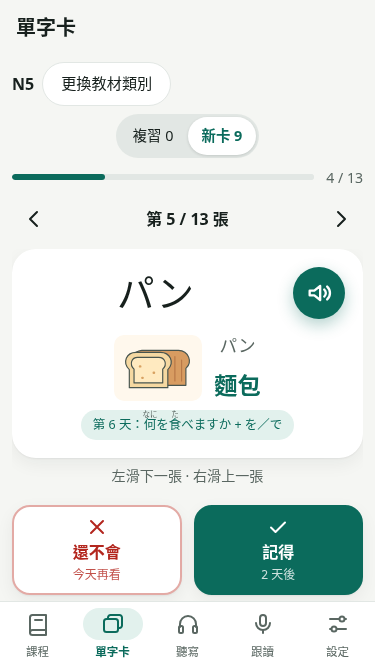
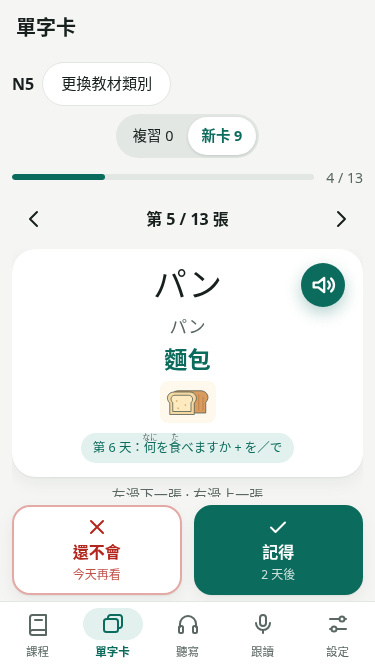
fix: center flashcard text and place auxiliary images below translations

Changed region(s): [[0.2053, 0.3898, 0.792, 0.7496], [0.7627, 0.3898, 0.9387, 0.5097]]

diff --git a/app/globals.css b/app/globals.css
@@ -803,52 +803,64 @@ a {
   animation: screen-in 0.18s ease-out;
 }
 
-/* Answer-only images stay beside the text, leaving playback and grading in place. */
-.flash-answer-detail {
-  display: flex;
-  align-items: center;
-  justify-content: center;
-  gap: 12px;
-  max-width: 100%;
-}
-
+/* Text keeps the same centerline with or without an auxiliary image. */
+.flash-answer-detail,
 .flash-answer-text {
   display: flex;
   flex-direction: column;
-  gap: 6px;
+  align-items: center;
+  width: 100%;
   min-width: 0;
+  text-align: center;
   overflow-wrap: anywhere;
 }
+
+.flash-answer-detail { gap: 6px; }
+.flash-answer-text { gap: 4px; }
 
 .vocab-illustration {
-  width: 88px;
-  height: 66px;
+  width: 56px;
+  height: 42px;
   object-fit: contain;
   flex: none;
-  border-radius: 10px;
+  border-radius: 8px;
 }
 
-.flashcard.has-illustration {
+.flashcard.is-revealed {
   display: grid;
-  grid-template-columns: minmax(0, 1fr) 52px;
+  grid-template-columns: 44px minmax(0, 1fr) 44px;
   min-height: 0;
-  padding: 16px;
-  gap: 12px;
+  padding: 12px 16px;
+  gap: 8px;
+  align-content: start;
 }
 
-.flashcard.has-illustration > .flash-word {
-  font-size: clamp(2rem, 10vw, 3rem);
+.flashcard.is-revealed > .flash-word {
+  grid-column: 2;
+  grid-row: 1;
+  font-size: clamp(2rem, 9vw, 2.6rem);
   overflow-wrap: anywhere;
 }
 
-.flashcard.has-illustration .play-big {
-  width: 52px;
-  height: 52px;
+.flashcard.is-revealed > .play {
+  grid-column: 3;
+  grid-row: 1;
 }
 
-.flashcard.has-illustration > .flash-back {
-  grid-column: 1 / -1;
+.flashcard.is-revealed .play-big {
+  width: 44px;
+  height: 44px;
 }
+
+.flashcard.is-revealed > .flash-back,
+.flashcard.is-revealed > .muted {
+  grid-column: 1 / -1;
+  width: 100%;
+}
+
+.flashcard.is-revealed .flash-reading { line-height: 1.35; }
+.flashcard.is-revealed .flash-zh { line-height: 1.4; }
+.flashcard.is-revealed .chip { margin-top: 4px; }
 
 /* Keep the SRS controls outside the independently scrollable card on phones. */
 @media (max-width: 640px) {
@@ -878,7 +890,7 @@ a {
     min-height: 240px;
   }
 
-  .srs-page .flashcard.has-illustration {
+  .srs-page .flashcard.is-revealed {
     min-height: 0;
   }
 

diff --git a/app/views/SrsView.tsx b/app/views/SrsView.tsx
@@ -23,7 +23,6 @@ import {
   type Grade,
   type SrsMode,
 } from '../../lib/srs.mjs';
-import { illustrationFor } from '../../lib/vocab-illustrations.mjs';
 import { VocabIllustration } from '../components/VocabIllustration';
 import { PlayButton } from '../components/AudioLine';
 import {
@@ -325,7 +324,7 @@ export function SrsView({
       </div>
 
       <div className="flashcard-area">
-        <div className={`flashcard${revealed && illustrationFor(current) ? ' has-illustration' : ''}`} aria-live="polite">
+        <div className={`flashcard${revealed ? ' is-revealed' : ''}`} aria-live="polite">
           <div className="flash-word" lang="ja">
             {current.word}
           </div>
@@ -337,7 +336,6 @@ export function SrsView({
           {revealed && (
             <div className="flash-back">
               <div className="flash-answer-detail">
-                <VocabIllustration key={current.id} card={current} />
                 <div className="flash-answer-text">
                   <div className="flash-reading" lang="ja">
                     {current.reading}
@@ -346,6 +344,7 @@ export function SrsView({
                     <RubyText text={current.zh} />
                   </div>
                 </div>
+                <VocabIllustration key={current.id} card={current} />
               </div>
               <span className="chip">
                 <RubyText text={current.lessonTitle} />

diff --git a/docs/vocab-illustration-pilot.md b/docs/vocab-illustration-pilot.md
@@ -4,7 +4,7 @@
 
 ## 呈現與退化
 
-回想面保留日文及播放鍵，圖片元件只在`revealed`答案區掛載，與讀音／翻譯並排，下方保留原課名。224×168的SVG以88×66呈現；有配圖答案面將日文與播放鍵排成同列，圖片與讀音／翻譯並排，課名在下；手機卡片內容獨立垂直捲動，評分列保留在內容區外，不遮住答案或被圖片推離操作區。桌面沿用原操作區位置。按鈕、空白揭示、1／2評分、左右滑動不評分、回看已評卡直接顯示答案、回頭改評從原始狀態重算，均維持原語意。
+回想面保留日文及播放鍵，圖片元件只在`revealed`答案區掛載，在讀音／翻譯下方，小圖之後另列原課名。224×168的SVG以56×42呈現；有圖／無圖共用答案版面，依序為置中日文、置中讀音、置中翻譯、小圖、分開留白的課名。播放鍵在右側，左側等寬留白使單字維持卡片中心線；手機卡片內容獨立垂直捲動，評分列保留在內容區外，不遮住答案或被圖片推離操作區。桌面沿用原操作區位置。按鈕、空白揭示、1／2評分、左右滑動不評分、回看已評卡直接顯示答案、回頭改評從原始狀態重算，均維持原語意。
 
 `lib/vocab-illustrations.mjs`以卡片ID＋word／reading／zh完整吻合才對應圖片，未核實的同詞卡與不同義項不自動配圖。圖片資料獨立於教材／Card與同步資料，不重建ID。每張圖片可被明確列入的卡片共用，本批僅12個對應。時計圖是「鐘、錶」的一例，並非完整定義；かぎ只配「鑰匙」義，橋是はし／橋義。
 
@@ -33,16 +33,16 @@
 
 每張224×168、4:3；12張合計6327 bytes。沿用現行`**/*.{js,css,html,ico,png,jpg,svg}`預快取規則，首次成功安裝／更新service worker即下載並提供離線圖片，不另加圖片下載開關或外部服務。圖片缺漏仍可學習，瀏覽器清除快取後需重新連線取得；音檔仍須按既有方式明確下載，沒有改成播放即下載或改音檔快取名稱。
 
-最新main正式base基準：main gzip65652、CSS gzip4817、precache21337719／21500000、479 URL，餘162281。試版：main gzip65662、CSS gzip5004、precache21347203／21500000、491 URL，餘152797；precache增9484 bytes，包含6327 bytes圖片及相關程式／樣式。原630000／5800／21500000上限、資產統計範圍與必要離線集合均未變，沒有runtime dependency或T122計時Gate。
+最新main正式base基準：main gzip65652、CSS gzip4817、precache21337719／21500000、479 URL，餘162281。試版：main gzip65662、CSS gzip5068、precache21347457／21500000、491 URL，餘152543；precache增9738 bytes，包含6327 bytes圖片及相關程式／樣式。原630000／5800／21500000上限、資產統計範圍與必要離線集合均未變，沒有runtime dependency或T122計時Gate。
 
-驗證結果與限制按實際執行補入release-audit；本輪只建立可審查PR，等待使用者評估手機畫面，不合併部署或擴大配圖。
+驗證結果與限制按實際執行補入release-audit；本輪只建立可審查PR，先等待使用者確認版面，再交reviewer審查，不合併部署或擴大配圖。
 
 
 ## 本機驗證與預覽
 
 330 tests／check、正式base build／原bundle通過；兩模式各13詞線上／真正離線、缺圖退化、其他三類無圖長卡與保存回歸完成，實際範圍及前置修正見release-audit T151。真斷網重載後12張圖片逐SHA一致，沒有記憶成效實驗。三張PNG為隔離測試資料的375×667畫面，不納入runtime資產。
 
-![回想面無圖片](previews/t151-front-375.png)
+![無配圖長答案置中](previews/t151-unmapped-375.png)
 
 ![麵包答案面](previews/t151-bread-375.png)
 

diff --git a/docs/release-audit.md b/docs/release-audit.md
@@ -1826,3 +1826,14 @@ metadata使教材chunk與引用雜湊改變，不能說產品產物與069b0f2相
 歷史修正：首次測試預覽漏傳base path導致SW等候，修正為與build一致的/nihongo-lab/獨立預覽後重驗；file://預覽不支援，改直接呈現自製SVG內容，沒有關閉安全設定。首版幾何檢查只確認評分鍵可見，手機截圖揭露答案被其遮住；修正為SRS內容獨立捲動，加入答案／操作區不重疊與長文字可讀檢查，最終兩模式全部重新通過。額外網路故障腳本最初攔截到非首張圖片，改依實際牌序精確攔截後通過；這些前置／腳本問題不冒充產品通過。
 
[1 lines of base64/hex data omitted]
+
+
+### T151 版面修訂：主要文字置中，圖片在翻譯下方（待使用者確認）
+
+同一PR #157／feature/T151，在ff36034試版上只調整版面。所有答案共用is-revealed規則，不以有圖／無圖切換主文字位置；日文保持視覺主體，右側播放鍵配左側等寬留白，使文字維持卡片中心線。讀音與翻譯各自置中，小圖56×42在翻譯下方，課程來源再分開留白於下方。圖片只增加文字下方的輔助區，不與文字並排；手機原卡片捲動、底部評分列及操作語意保持，長內容仍能捲動閱讀。
+
+12張SVG、義項對應、教材、音檔、ID、同步及排程均與首版逐檔無差異，沒有新增插畫、依賴或教材。330 tests／check、正式base build及原perf:bundle通過；main gzip65662、CSS5068、precache21347457／21500000 bytes，491 URL、餘152543。對初版僅多254 bytes，原上限與離線集合保持；首次main基準增9738。三張文件手機截圖更新為麵包、地圖與無配圖長答案，不是新增runtime資產。
+
+375×667新卡／複習各13詞、線上與真正斷網重載共52張卡完整重驗，包含12個全部配圖詞與無圖長詞ごちそうさま。逐卡驗證日文／讀音／翻譯中心線誤差小於1.5px、圖片在翻譯下與來源獨立間距、有圖與無圖文字位置一致、不遮住評分列、實際1倍完整播放、揭示／評分／改評、觸控滑動及v3保存。真正離線使用BrowserContext.setOffline(true)、navigator.onLine=false並reload，缺圖退化也再次確認文字置中與下一張恢復；無pageerror／水平溢位。其他三類最長無圖卡再驗長詞／長翻譯捲動、播放、評分、保存與操作區，全部通過。前次暫存預覽服務已停止，重啟同base預覽後才取得有效結果，不將連線拒絕記為產品失敗。
+
[1 lines of base64/hex data omitted]

diff --git a/progress.md b/progress.md
@@ -1,16 +1,16 @@
 # 專案進度
 
-## 目前狀態：2026-10-21 T151 單字卡答案面12詞配圖UX試版（本機驗證完成，待PR審查；不部署）
+## 目前狀態：2026-10-21 T151 單字卡答案面12詞配圖UX試版（本機驗證完成，待使用者確認版面；不部署）
 
 基底main `4f723b9`，起始工作目錄乾淨、無未合併PR；沿用已更新的T149／T150進度。只替12個已核實既有N5詞條配圖：パン、地図、傘、卵、魚、本、かぎ、いす、時計、学校、橋、公園。對應鎖定卡片ID＋日文／讀音／原翻譯，沒有按字面自動擴散；詞表及義項、CC0來源與版面見[配圖試版設計](docs/vocab-illustration-pilot.md)。
 
-12張自製224×168無文字SVG共6327 bytes，88×66顯示，只在揭示答案後掛載。日文與播放鍵同列、圖與讀音／翻譯並排；手機卡片內容獨立捲動，評分列在外，不遮住長答案。未配圖／載入失敗仍保留文字、音訊與評分；沒有新增設定、彈窗、動畫、看圖猜詞或runtime dependency。
+12張自製224×168無文字SVG共6327 bytes，56×42顯示，只在揭示答案後掛載。日文、讀音與翻譯各自置中，圖在翻譯下方、課程來源另列下方；手機卡片內容獨立捲動，評分列在外，不遮住長答案。未配圖／載入失敗仍保留文字、音訊與評分；沒有新增設定、彈窗、動畫、看圖猜詞或runtime dependency。
 
-全部既有Card／ID／教材／8535音檔、FSRS及同步v3、四類入口／音檔下載語意保持；沒有修改對話或課程頁。330 tests／check、正式/nihongo-lab/ build及原perf:bundle通過。precache21337719→21347203／21500000 bytes（+9484），491 URL、餘152797；main gzip65662／630000、CSS5004／5800，原門檻與必要離線集合不變。
+全部既有Card／ID／教材／8535音檔、FSRS及同步v3、四類入口／音檔下載語意保持；沒有修改對話或課程頁。330 tests／check、正式/nihongo-lab/ build及原perf:bundle通過。precache21337719→21347457／21500000 bytes（+9738），491 URL、餘152543；main gzip65662／630000、CSS5068／5800，原門檻與必要離線集合不變。
 
 375×667隔離Chromium：新卡／複習各12配圖＋1無配圖長答案，線上及BrowserContext.setOffline(true)、navigator.onLine=false後真正重載，共52張卡完整揭示／1倍播放／評分／改評／保存；觸控滑動不評分、手動回看已揭示、改評不重複累進排程、長答案與圖片不遮擋評分區均通過。12圖斷網逐SHA一致；線上圖片網路失敗及離線刪圖缺漏均能繼續播放／評分、下一張圖片恢復。另三類無配圖長卡播放／評分／保存回歸通過，零pageerror／水平溢位。
 
-代表性375寬畫面已保存供評估；只交付可審查PR、等待CI，不合併部署、不擴大其他詞彙或功能。不宣稱記憶效果提升；人工語音與完整真機沿既有日常回報，沒有新安排或標為通過，Android歷史保持。180課文字深審與JLPT盤點沿用T149現況。
+代表性375寬畫面已保存供評估；更新同一PR，先待使用者確認版面再交reviewer，不合併部署、不擴大其他詞彙或功能。不宣稱記憶效果提升；人工語音與完整真機沿既有日常回報，沒有新安排或標為通過，Android歷史保持。180課文字深審與JLPT盤點沿用T149現況。
 
 ## 歷史狀態：2026-10-21 T149 文字審查收尾（產品發布與驗收完成；最終文件部署結果見發布紀錄PR）
 

diff --git a/docs/task-breakdown.md b/docs/task-breakdown.md
@@ -1,16 +1,16 @@
 # 任務拆解
 
-## 目前狀態：2026-10-21 T151 單字卡答案面12詞配圖UX試版（本機驗證完成，待PR審查；不部署）
+## 目前狀態：2026-10-21 T151 單字卡答案面12詞配圖UX試版（本機驗證完成，待使用者確認版面；不部署）
 
 基底main `4f723b9`，起始工作目錄乾淨、無未合併PR；沿用已更新的T149／T150進度。只替12個已核實既有N5詞條配圖：パン、地図、傘、卵、魚、本、かぎ、いす、時計、学校、橋、公園。對應鎖定卡片ID＋日文／讀音／原翻譯，沒有按字面自動擴散；詞表及義項、CC0來源與版面見[配圖試版設計](vocab-illustration-pilot.md)。
 
-12張自製224×168無文字SVG共6327 bytes，88×66顯示，只在揭示答案後掛載。日文與播放鍵同列、圖與讀音／翻譯並排；手機卡片內容獨立捲動，評分列在外，不遮住長答案。未配圖／載入失敗仍保留文字、音訊與評分；沒有新增設定、彈窗、動畫、看圖猜詞或runtime dependency。
+12張自製224×168無文字SVG共6327 bytes，56×42顯示，只在揭示答案後掛載。日文、讀音與翻譯各自置中，圖在翻譯下方、課程來源另列下方；手機卡片內容獨立捲動，評分列在外，不遮住長答案。未配圖／載入失敗仍保留文字、音訊與評分；沒有新增設定、彈窗、動畫、看圖猜詞或runtime dependency。
 
-全部既有Card／ID／教材／8535音檔、FSRS及同步v3、四類入口／音檔下載語意保持；沒有修改對話或課程頁。330 tests／check、正式/nihongo-lab/ build及原perf:bundle通過。precache21337719→21347203／21500000 bytes（+9484），491 URL、餘152797；main gzip65662／630000、CSS5004／5800，原門檻與必要離線集合不變。
+全部既有Card／ID／教材／8535音檔、FSRS及同步v3、四類入口／音檔下載語意保持；沒有修改對話或課程頁。330 tests／check、正式/nihongo-lab/ build及原perf:bundle通過。precache21337719→21347457／21500000 bytes（+9738），491 URL、餘152543；main gzip65662／630000、CSS5068／5800，原門檻與必要離線集合不變。
 
 375×667隔離Chromium：新卡／複習各12配圖＋1無配圖長答案，線上及BrowserContext.setOffline(true)、navigator.onLine=false後真正重載，共52張卡完整揭示／1倍播放／評分／改評／保存；觸控滑動不評分、手動回看已揭示、改評不重複累進排程、長答案與圖片不遮擋評分區均通過。12圖斷網逐SHA一致；線上圖片網路失敗及離線刪圖缺漏均能繼續播放／評分、下一張圖片恢復。另三類無配圖長卡播放／評分／保存回歸通過，零pageerror／水平溢位。
 
-代表性375寬畫面已保存供評估；只交付可審查PR、等待CI，不合併部署、不擴大其他詞彙或功能。不宣稱記憶效果提升；人工語音與完整真機沿既有日常回報，沒有新安排或標為通過，Android歷史保持。180課文字深審與JLPT盤點沿用T149現況。
+代表性375寬畫面已保存供評估；更新同一PR，先待使用者確認版面再交reviewer，不合併部署、不擴大其他詞彙或功能。不宣稱記憶效果提升；人工語音與完整真機沿既有日常回報，沒有新安排或標為通過，Android歷史保持。180課文字深審與JLPT盤點沿用T149現況。
 
 ## 歷史狀態：2026-10-21 T148 最後20課與180課文字審查總結（僅文件，未發布）
 

diff --git a/docs/project-plan.md b/docs/project-plan.md
@@ -600,4 +600,4 @@ T135發布前最終驗證：306 tests／check、正式base build／原bundle／c
 
 ## 2026-10-21 T151 單字卡配圖試版
 
-T151：只對12個核實既有N5詞條做答案面插畫UX試版；自製CC0 SVG、精確ID／義項配對與離線預快取，不增教材／對話／漫畫／動畫。僅交付PR及手機畫面，不合併部署；不宣稱記憶效果，詳見vocab-illustration-pilot。
+T151：只對12個核實既有N5詞條做答案面插畫UX試版；自製CC0 SVG、精確ID／義項配對與離線預快取，不增教材／對話／漫畫／動畫。更新同一PR及手機畫面，先待使用者確認版面再交reviewer，不合併部署；不宣稱記憶效果，詳見vocab-illustration-pilot。
